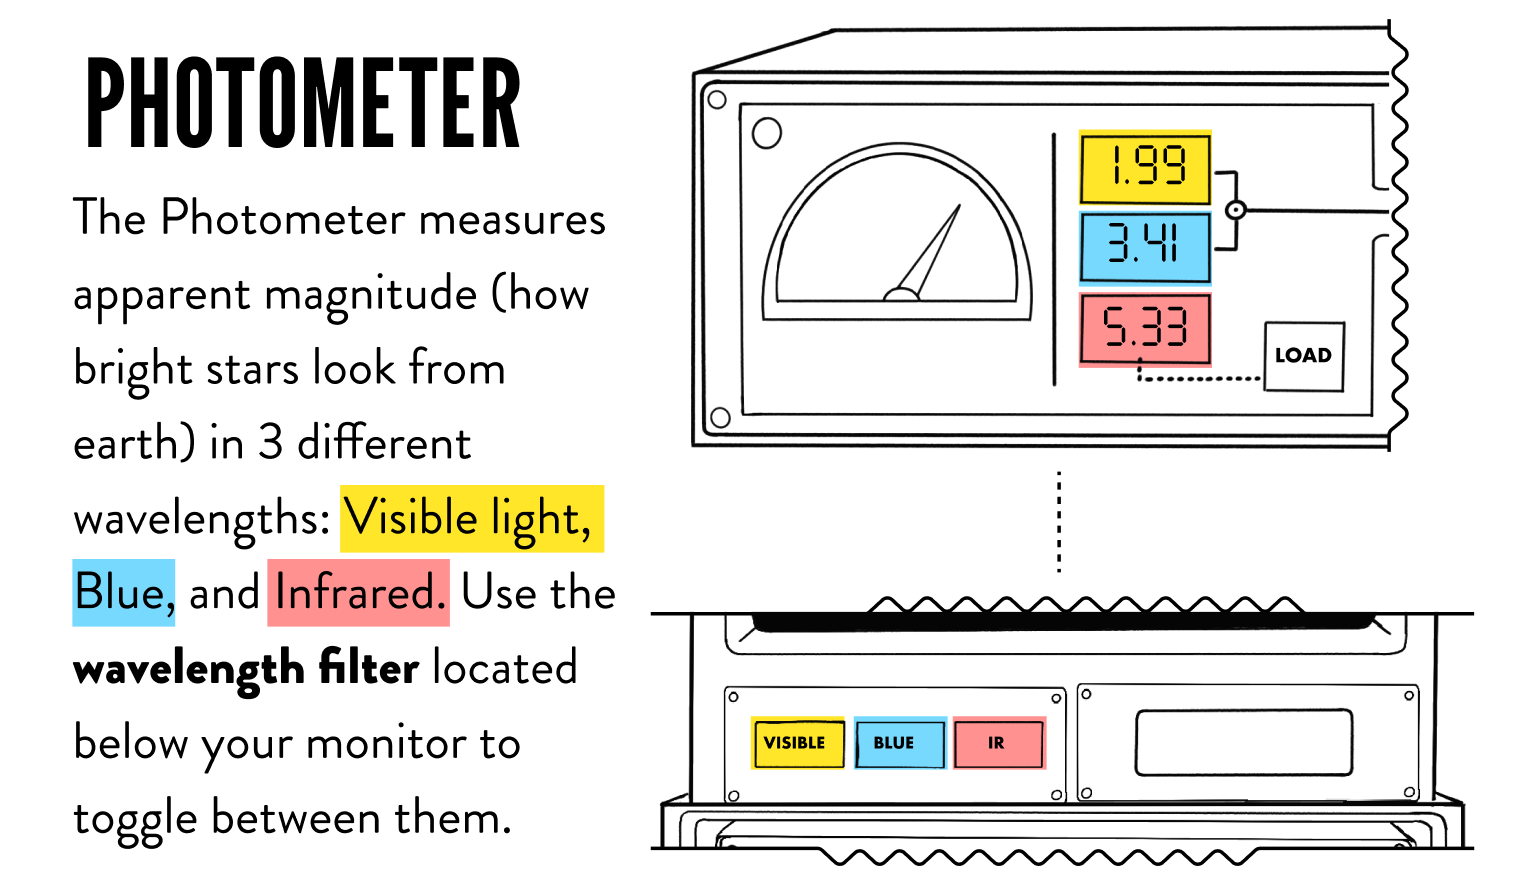
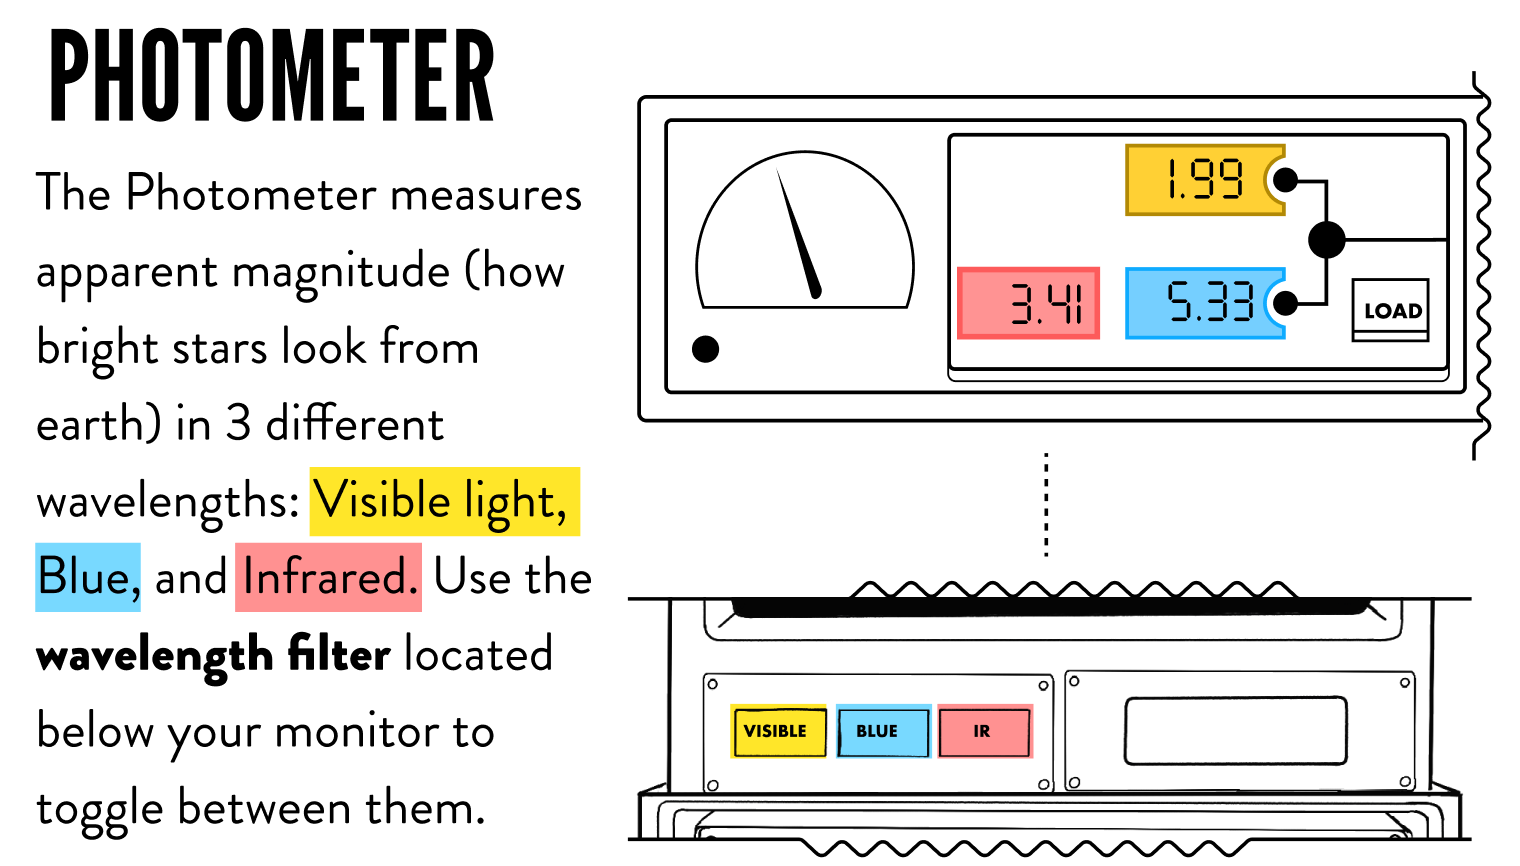
* CopyTexture transition breaks Day 1 Audio 🪳 * ref guide updates 📖 * removing archive stacks ❌ * update to post-it prefab 📄 * telescope page asset update :telescope:

diff --git a/Assets/Code/Document/DocumentBoardState.cs b/Assets/Code/Document/DocumentBoardState.cs
@@ -72,21 +72,21 @@ namespace Astro {
             state.DocumentCloseEnabledState.TryAdd(spawned.Interactable.AssetName, true);
 
             if (toBoard && !asset.Prefab.AlwaysHighRes) {
-                DocumentUtility.DisplayLowResDocument(spawned, asset);
-            }
-            else {
-                DocumentUtility.DisplayFullDocument(spawned, asset);
+                DisplayLowResDocument(spawned, asset);
+            } else {
+                DisplayFullDocument(spawned, asset);
             }
 
             PlayerProgressState progressState = Find.State<PlayerProgressState>();
-            ArchiveState archiveState = Find.State<ArchiveState>();
+            // ArchiveState archiveState = Find.State<ArchiveState>();
 
             var localPos = asset.DefaultPinnedPos;
-            bool fromArchive = archiveIndex != -1;
-            bool fromCurrDayArchive = progressState.DayIndex == archiveIndex + archiveState.DayOffset;
+            // bool fromArchive = archiveIndex != -1;
+            // bool fromCurrDayArchive = progressState.DayIndex == archiveIndex + archiveState.DayOffset;
 
             // override with init position if doc has different init position and it's being spawned to the current day
-            if (asset.DifInitPos && (!fromArchive || (fromArchive && fromCurrDayArchive))) {
+            // if (asset.DifInitPos && (!fromArchive || (fromArchive && fromCurrDayArchive))) {
+            if (asset.DifInitPos) {
                 localPos = asset.InitPos;
             }
 
@@ -95,12 +95,14 @@ namespace Astro {
 
             // place somewhere offscreen
             spawned.transform.position = new Vector3(-500, -500, 500);
+            
+            UpdateEnabledDocParts(spawned.Interactable, DocumentBoardState.BoardActiveFunctions);
 
             // load assets
             state.DocumentLoadRoutine.Replace(AwaitDocLoadComplete(spawned))
                 .OnComplete(() => {
                     // restore doc position
-                    if (toBoard && !fromArchive) { spawned.transform.localPosition = localPos; }
+                    if (toBoard) { spawned.transform.localPosition = localPos; }
                 });
 
             return spawned;
@@ -114,18 +116,18 @@ namespace Astro {
         [LeafMember("SpawnDocumentToCamera")]
         public static void LeafSpawnDocumentToCamera(StringHash32 id) {
             DocumentBoardState state = Find.State<DocumentBoardState>();
-            ArchiveState archiveState = Find.State<ArchiveState>();
+            // ArchiveState archiveState = Find.State<ArchiveState>();
 
             if (state.DocumentRoutine.Exists()) {
                 // wait for previous document routine to complete
-                state.DocumentRoutine.OnComplete(() => { state.DocumentRoutine.Replace(SpawnDocumentToCamera(state, archiveState, id)); });
+                state.DocumentRoutine.OnComplete(() => { state.DocumentRoutine.Replace(SpawnDocumentToCamera(state, id)); });
             }
             else {
-                state.DocumentRoutine.Replace(SpawnDocumentToCamera(state, archiveState, id));
+                state.DocumentRoutine.Replace(SpawnDocumentToCamera(state, id));
             }
         }
 
-        public static IEnumerator SpawnDocumentToCamera(DocumentBoardState state, ArchiveState archiveState, StringHash32 id) {
+        public static IEnumerator SpawnDocumentToCamera(DocumentBoardState state, StringHash32 id) {
             var asset = Find.NamedAsset<DocumentAsset>(id);
             var spawned = SpawnDocument(asset, id, out Vector3 pinnedPos, state, true, false);
 

diff --git a/Assets/Code/Scripting/ScriptTriggers.cs b/Assets/Code/Scripting/ScriptTriggers.cs
@@ -73,12 +73,13 @@ namespace Astro {
         static public void LoadNextDay(StringHash32 transitionType = default) {
             PlayerProgressState state = Find.State<PlayerProgressState>();
             StoryAsset story = Find.GlobalAsset<StoryAsset>();
-
             Game.Events.Dispatch(GameEvents.BeforeNextDayLoad);
 
             state.DayIndex += 1;
             DayConfigAsset day = Find.NamedAsset<DayConfigAsset>(story.Days[state.DayIndex]);
-            Log.Msg("[ScriptTriggers] Loading day '{0}'", day.name);
+            Log.Msg("[ScriptTriggers > LoadNextDay] Loading day '{0}'", day.name);
+
+            MusicUtility.StopMusic(1);
 
             SaveUtility.Save(SaveSlot.Main);
 
@@ -91,6 +92,8 @@ namespace Astro {
         static public void LoadDay(StringHash32 dayId, StringHash32 transitionType = default) {
             PlayerProgressState state = Find.State<PlayerProgressState>();
             StoryAsset story = Find.GlobalAsset<StoryAsset>();
+            Game.Events.Dispatch(GameEvents.BeforeNextDayLoad);
+
             for (int i = 0; i < story.Days.Length; i++) {
                 if (story.Days[i] == dayId) {
                     state.DayIndex = i;
@@ -99,11 +102,9 @@ namespace Astro {
             }
 
             var day = Find.NamedAsset<DayConfigAsset>(dayId);
+            Log.Msg("[ScriptTriggers > LoadDay] Loading day '{0}'", day.name);
 
-            Game.Events.Dispatch(GameEvents.BeforeNextDayLoad);
             MusicUtility.StopMusic(1);
-
-            Log.Msg("[ScriptTriggers] Loading day '{0}'", day.name);
 
             state.CompletedPrelude = true;
             SaveUtility.Save(SaveSlot.Main);

diff --git a/Assets/Code/Document/Archives/ArchiveInteractSystem.cs b/Assets/Code/Document/Archives/ArchiveInteractSystem.cs
@@ -4,24 +4,20 @@ using System.Collections;
 using System.Collections.Generic;
 using UnityEngine;
 
-namespace Astro
-{
+namespace Astro {
     [SysUpdate(GameLoopPhase.Update, 0, AstroGame.DocumentUpdateMask)]
-    public class ArchiveInteractSystem : ComponentSystemBehaviour<ArchiveInteractable, LabInteractable>
-    {
-        public override void ProcessWork(float deltaTime)
-        {
+    public class ArchiveInteractSystem : ComponentSystemBehaviour<ArchiveInteractable, LabInteractable> {
+        public override void ProcessWork(float deltaTime) {
             base.ProcessWork(deltaTime);
 
-            var archiveState = Find.State<ArchiveState>();
+            // var archiveState = Find.State<ArchiveState>();
             var boardState = Find.State<DocumentBoardState>();
 
-            foreach (var component in m_Components)
-            {
+            foreach (var component in m_Components) {
                 if (!component.Secondary.InteractReceived) { continue; }
 
                 // load the relevant archive history
-                ArchiveUtility.LoadArchive(archiveState, boardState, component.Primary.ArchiveIndex);
+                // ArchiveUtility.LoadArchive(archiveState, boardState, component.Primary.ArchiveIndex);
             }
         }
     }

diff --git a/Assets/Code/Reference/RefGuideState.cs b/Assets/Code/Reference/RefGuideState.cs
@@ -645,10 +645,24 @@ namespace Astro.Reference {
             SetReferenceActive(active);
         }
 
-        [LeafMember("SetRefPageActive")]
+        [LeafMember("SetRefPageNumActive")]
         private static void LeafSetRefGuideActive(int pageNum, bool active) {
             RefGuideState state = Find.State<RefGuideState>();
             state.ActivePages[pageNum] = active;
+        }
+
+        [LeafMember("SetRefPageActive")]
+        private static void LeafSetRefGuideActive(StringHash32 name, bool active) {
+            RefGuideState state = Find.State<RefGuideState>();
+            int pageIdx = 0;
+            foreach (ReferencePageAsset page in state.PageList.Pages) {
+                if (page.AssetId == name) {
+                    state.ActivePages[pageIdx] = active;
+                    return;
+                }
+                pageIdx++;
+            }
+            Log.Warn("[RefGuideState > SetRefPageActive] Failed to find page {0}", name);
         }
 
         [LeafMember("SetRefGuidePagesLocked")]

diff --git a/Assets/Code/Document/Archives/ArchiveLoader.cs b/Assets/Code/Document/Archives/ArchiveLoader.cs
@@ -7,12 +7,9 @@ using FieldDay.Scenes;
 using FieldDay.Scripting;
 using UnityEngine;
 
-namespace Astro
-{
-    public sealed class ArchiveLoader : MonoBehaviour, IScenePreload
-    {
-        public IEnumerator<WorkSlicer.Result?> Preload()
-        {
+namespace Astro {
+    public sealed class ArchiveLoader : MonoBehaviour, IScenePreload {
+        public IEnumerator<WorkSlicer.Result?> Preload() {
             PlayerProgressState playerState = Find.State<PlayerProgressState>();
             DayConfigAsset config = DayConfigUtil.GetConfigForState();
             ArchiveState archiveState = Find.State<ArchiveState>();

diff --git a/Assets/Code/Sky/Focus/FocusState.cs b/Assets/Code/Sky/Focus/FocusState.cs
@@ -99,7 +99,7 @@ namespace Astro {
             if (assetFocus != null) {
                 SetCurrentFocus(state, assetFocus);
             } else {
-                Log.Warn("[FocusableUtility > SetCurrentFocus] could not find asset {0}", asset.AssetId);
+                Log.Warn("[FocusableUtility > SetCurrentFocus] could not find CelestialAsset: {0}", asset != null ? asset.AssetId : "null");
             }
         }
         

diff --git a/Assets/Code/Identify/PointsReviewSystem.cs b/Assets/Code/Identify/PointsReviewSystem.cs
@@ -40,6 +40,7 @@ namespace Astro {
                 CheckObjectIdentification();
             } 
             if (m_State.CurrentSubmission == ReviewSubmissionType.Puzzle) {
+                Game.Events.Dispatch(GameEvents.MonitorEmptySpaceClicked);
                 // if puzzle checking is expensive, could this be amortized over the timer duration?
                 CheckPuzzle();
             }
